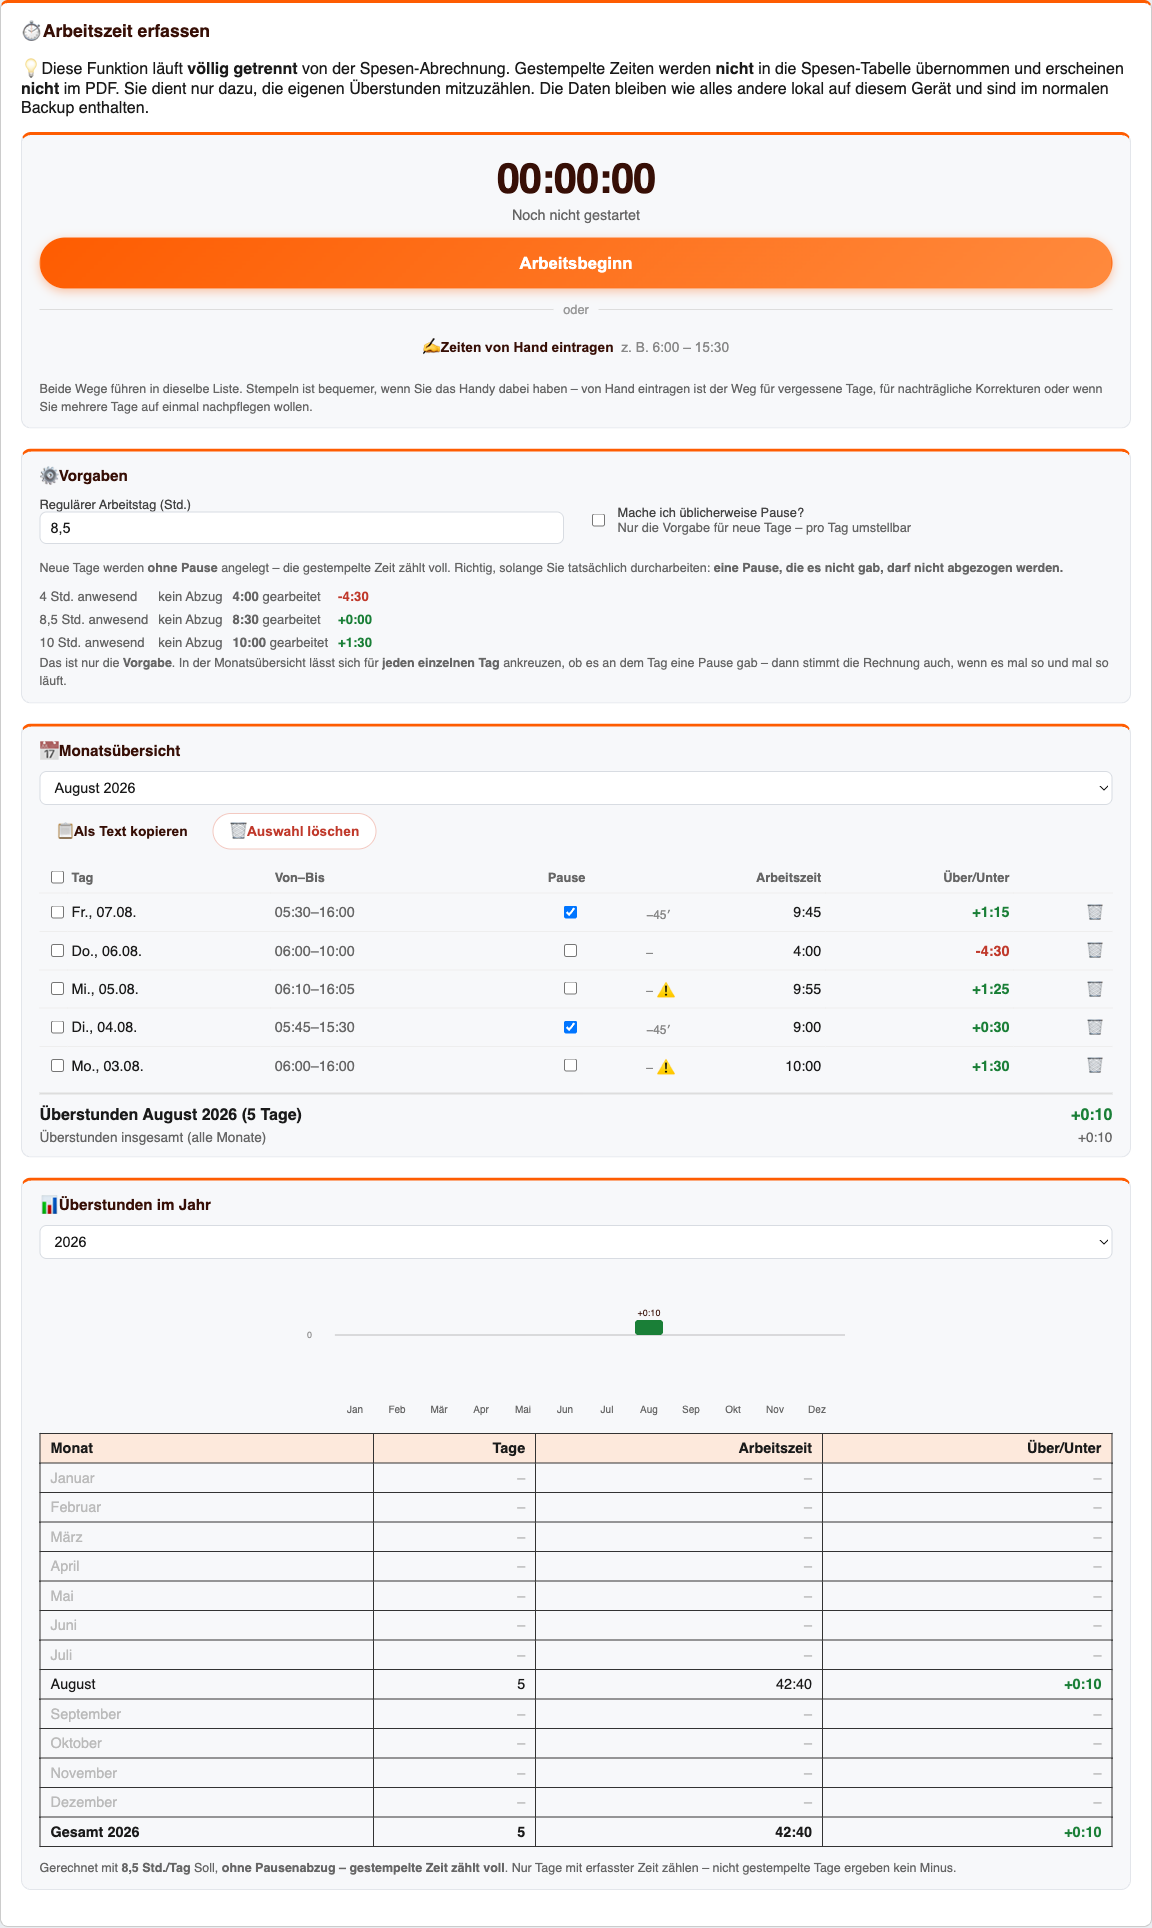
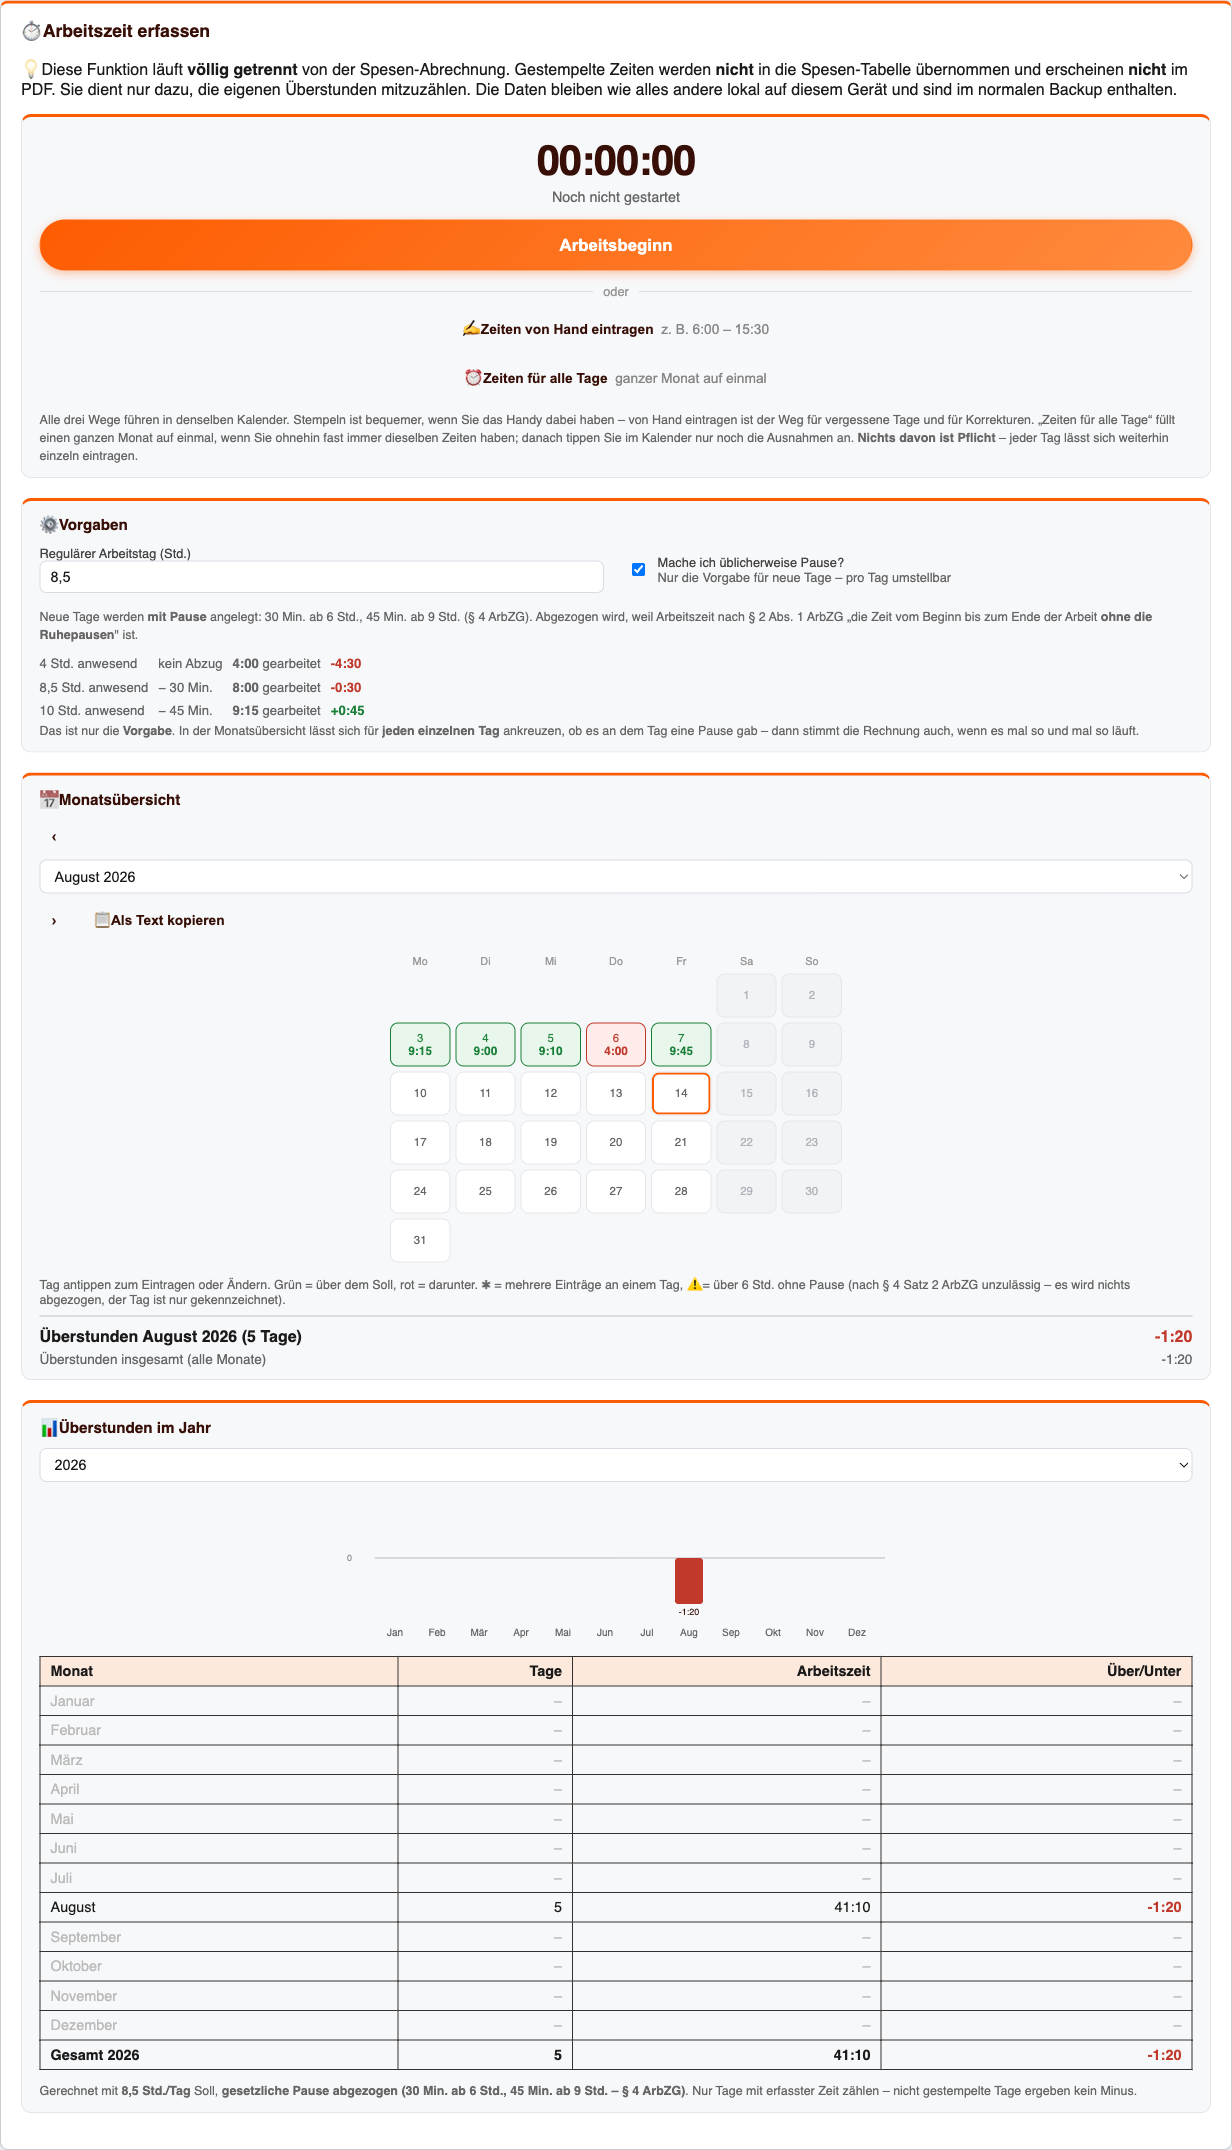
Anleitungsbilder auf den Stand von 2.3; Cache-Version hochgezaehlt
Zwei Screenshots zeigten einen Zustand, den es nicht mehr gibt:

- arbeitszeit.png war vom 11.08. und zeigte die alte Tagesliste mit dem
  Knopf "Auswahl loeschen" und einer Spalte "Pause" - beides ist seit 2.1
  bzw. 2.2 entfernt. Neu: Monatskalender, alle drei Eingabewege inkl.
  "Zeiten fuer alle Tage", Pausen-Vorgabe nach § 4 ArbZG.
- kartenansicht.png war mitten in der ersten Tageskarte abgeschnitten und
  zeigte die Kartenansicht nie vollstaendig. Neu in echter Handy-Breite
  (393 px) mit drei kompletten Tageskarten und dem neuen Knopf in der
  Werkzeugleiste.

Cache-Version von 2026-08-14-4 auf -5 (sw.js, index.html, version.txt).
Zwingend, nicht kosmetisch: Der Worker liefert alles ausser HTML
"Cache zuerst" und legt Bilder beim ersten Abruf selbst ab. Ohne neuen
Cache-Namen haetten Kollegen, die die Anleitung schon geoeffnet hatten,
die alten Bilder dauerhaft weiter gesehen - neue Anleitung, alte Bilder.
Nachgeprueft: nach dem Hochzaehlen existiert nur noch der neue Cache.

Ausserdem ein irreführender Kommentar korrigiert: Er behauptete, die Seite
habe "bewusst kein verlinktes Manifest". Seit 00cede5 hat sie eines - genau
deshalb, weil ohne Manifest unter Android das Symbol grau blieb, kein
eigenes Fenster aufging und damit die Kartenansicht nie erschien.

diff --git a/index.html b/index.html
@@ -4845,7 +4845,7 @@ oeffneAusAnker();
    neueste Version, ohne selbst "hart neu laden" zu müssen. Alle Daten liegen lokal
    im Browser und gehen dabei NICHT verloren. */
 (function () {
-  const APP_VERSION = "2026-08-14-4"; // bei jeder Änderung zusammen mit version.txt hochzählen
+  const APP_VERSION = "2026-08-14-5"; // bei jeder Änderung zusammen mit version.txt hochzählen
   async function checkForUpdate() {
     try {
       const r = await fetch("version.txt?cb=" + Date.now(), { cache: "no-store" });
@@ -4865,10 +4865,14 @@ oeffneAusAnker();
    Meldet den Service Worker an. Danach funktioniert der Spesen-Rechner
    auch ohne Empfang - im Lager, im Lkw, im Funkloch.
 
-   WICHTIG: Das macht die Seite NICHT zur App. Dafuer braeuchte sie ein
-   verlinktes Manifest, das sie bewusst nicht hat. Es gibt also kein
-   "App installieren"-Fenster. Fuer die Kollegen aendert sich sichtbar
-   nichts - das Tool funktioniert nur zusaetzlich ohne Empfang.
+   Stand 14.08.2026: Die Seite hat wieder ein verlinktes Manifest
+   (app/manifest.json, siehe Kopf dieser Datei). Vorher stand hier bewusst
+   keines, um den Kollegen das Installations-Fenster zu ersparen - das hat
+   unter Android aber drei Dinge gleichzeitig gekostet: graues Platzhalter-
+   Symbol, kein eigenes Fenster und damit KEINE Kartenansicht (die haengt an
+   "display-mode: standalone", das ohne Manifest nie eintritt). Die
+   Android-Kollegen sahen deshalb weiter die breite Tabelle. Manifest also
+   nicht wieder entfernen.
 
    Derselbe Worker bedient auch die Weiterleitung unter /app/.
 

diff --git a/sw.js b/sw.js
@@ -34,7 +34,7 @@
    dabei aendern, sonst installiert der Browser den neuen Worker nicht.
 */
 
-const CACHE_VERSION = "2026-08-14-4";
+const CACHE_VERSION = "2026-08-14-5";
 const CACHE_NAME = "hall-spesen-" + CACHE_VERSION;
 
 /* Was beim Installieren mitgenommen wird, damit auch der allererste
